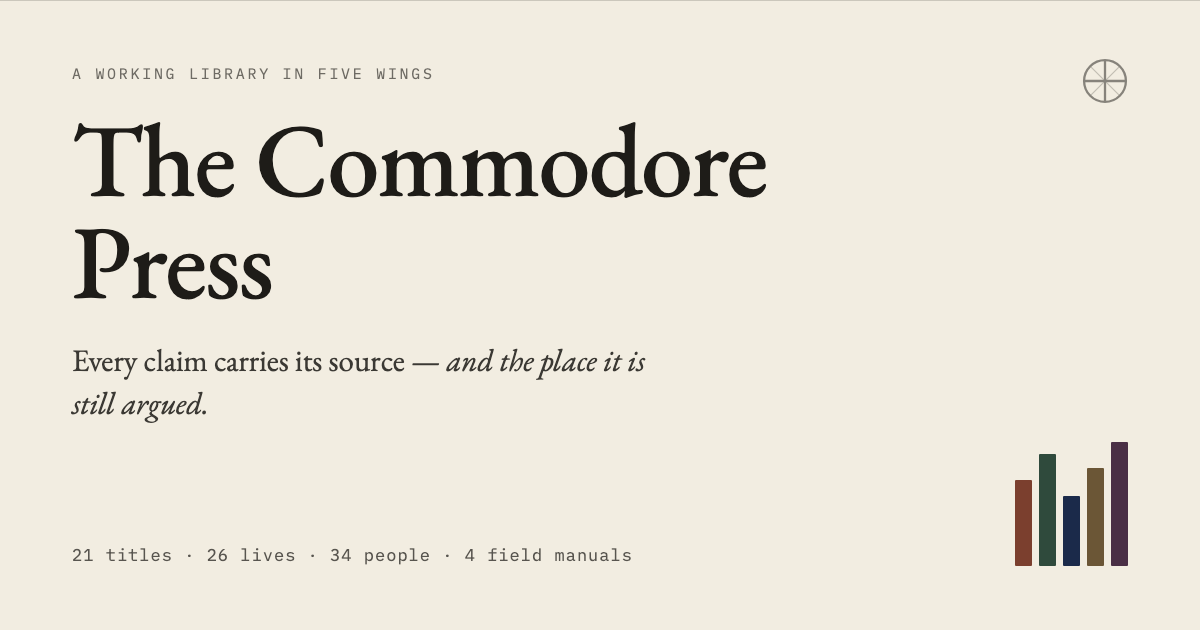
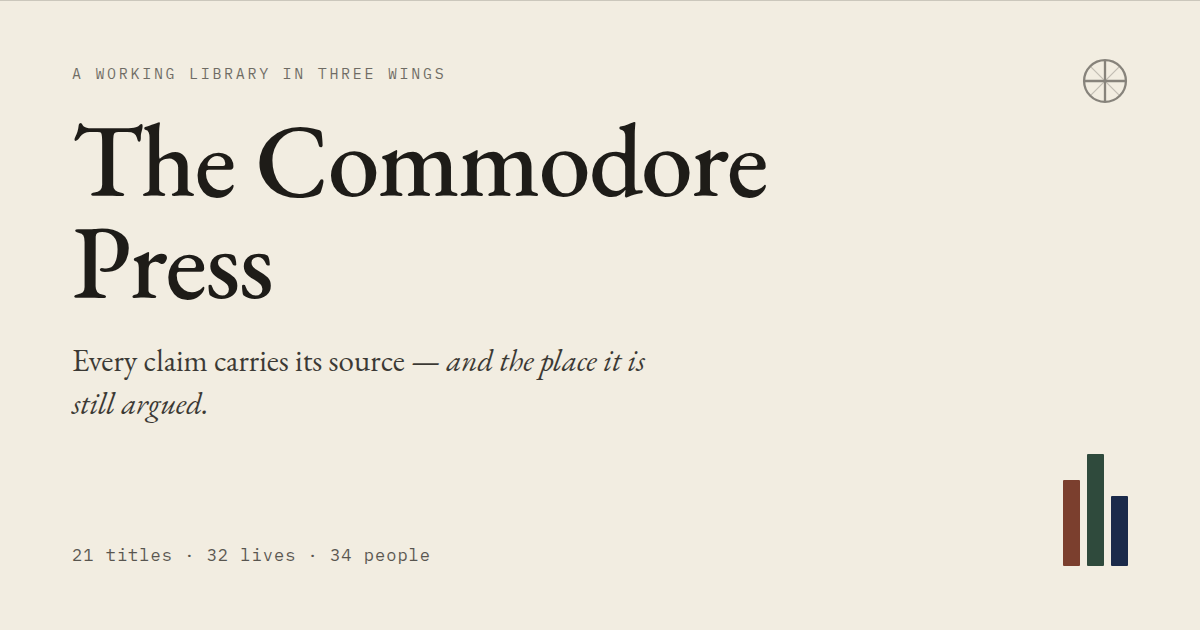
Four things I broke, and two guards so the next ones fail loudly
Ran the repo's own review over this whole branch instead of trusting it.
Four defects were mine, and the worst had already shipped four times.

The script that removed the Slipway section ate two characters of
`</main>`. A literal `/main>` printed above the footer on every view and
`<main>` was never closed, in four builds, while I checked the wings,
the links, the search index and the routing.

"Five wings" outlived the wings in four more places: the og:description
every link preview reads, the front-door standfirst sitting directly
above three wing cards, package.json, and the social card. The wing
count is derived now, like the plate counts.

The disclosure I rewrote an hour ago counted only the CC plates and
called two CC BY-SA ones "CC BY". It reads "except the four plates
credited above" now, which is what the body actually credits — three CC
and the Library of Congress photograph, whose "no known copyright
restrictions" is a narrower claim than public domain and does not belong
on either side of that sentence by accident.

Two guards, both proved on deliberate breakage before being trusted. The
build now refuses an unfilled `{{TOKEN}}`, which would otherwise print
verbatim on the live page. And it refuses an unbalanced or bracket-less
closing tag, which is the `/main>` bug reduced to a rule.

The social card was the one worth the most digging. It is the image on
every shared link and it still advertised five wings, twenty-six lives
[…]

diff --git a/dist/404.html b/dist/404.html
@@ -24,7 +24,7 @@
 <meta property="og:site_name" content="The Commodore Press">
 <meta property="og:locale" content="en_US">
 <meta property="og:url" content="https://42thecommodore.github.io/the-commodore-press/">
-<meta property="og:description" content="A working library in five wings. Every claim carries its source — and the place it is still argued.">
+<meta property="og:description" content="A working library in three wings. Every claim carries its source — and the place it is still argued.">
 <meta property="og:image" content="https://42thecommodore.github.io/the-commodore-press/og.png">
 <meta property="og:image:width" content="1200">
 <meta property="og:image:height" content="630">
@@ -596,7 +596,7 @@
             <span><i style="--d:230ms">Mark what is</i></span>
             <span class="em"><i style="--d:340ms">still argued.</i></span>
           </h1>
-          <p class="stand" data-reveal style="--d:300ms">Five wings of one method. Every claim here carries where it came from and where specialists disagree — because the disagreement is usually the part worth having.</p>
+          <p class="stand" data-reveal style="--d:300ms">Three wings of one method. Every claim here carries where it came from and where specialists disagree — because the disagreement is usually the part worth having.</p>
           <div class="tally" data-reveal style="--d:340ms" id="tally"></div>
         </div>
         <div class="today" data-reveal style="--d:360ms" id="todayCard"></div>
@@ -617,7 +617,7 @@
           <p>The portraits in Lives are public-domain engravings, paintings and photographs, reduced to the house duotone and set as plates. A life without a safely public image carries the press mark instead of a borrowed picture, which seems the more honest trade. Three lives are in that position today. Henrietta Lacks is there by decision; her entry says why at length, and her estate has itself disputed the use of family photographs. Ibn Khaldun and Clair Patterson are there because no image of either has yet been cleared: no portrait of Ibn Khaldun from his own lifetime is known, and Patterson's photographs sit in an archive that grants permission only on request. Three plates are licensed rather than public domain, and are credited here because the licence requires it: the Mandela photograph is by South Africa The Good News (sagoodnews.co.za) under CC BY 2.0; the Steve Jobs photograph was taken at WWDC in 2010 by Matthew Yohe under CC BY-SA 3.0; and the Tu Youyou photograph was taken in Stockholm on 6 December 2015 by Bengt Nyman under CC BY-SA 4.0. All three have been cropped and reduced to the house duotone, which the licences ask us to say. One more is neither: the 1939 photograph of Robert Moses is by C. M. Stieglitz for the New York World-Telegram &amp; Sun, held by the Library of Congress, which states that it knows of no copyright restrictions on it — a narrower claim than public domain, and worth saying in those words. Everything else came through Wikimedia Commons.</p>
           <div class="corr" id="corrections"></div>
           <div class="lbl q" style="margin:30px 0 10px">Disclosure</div>
-          <p style="font-size:16.5px">This site was assembled by Luca with substantial help from an AI assistant (Anthropic's Claude) — drafting, checking figures against the named sources, and the build itself. The picks, positions and errors are mine; when an error is found it joins the corrections above instead of disappearing. Lines marked &ldquo;after&rdquo; a name are compressed notes of someone's idea, not their words, and nobody named on this site has endorsed it or its readings of them. Portraits are public-domain images, except three CC&nbsp;BY credits noted above. The page sets no cookies and runs no analytics; the night-reading switch is remembered only in your own browser.</p>
+          <p style="font-size:16.5px">This site was assembled by Luca with substantial help from an AI assistant (Anthropic's Claude) — drafting, checking figures against the named sources, and the build itself. The picks, positions and errors are mine; when an error is found it joins the corrections above instead of disappearing. Lines marked &ldquo;after&rdquo; a name are compressed notes of someone's idea, not their words, and nobody named on this site has endorsed it or its readings of them. Portraits are public-domain images, except the four plates credited above. The page sets no cookies and runs no analytics; the night-reading switch is remembered only in your own browser.</p>
         </div>
       </div>
     </div>
@@ -684,7 +684,7 @@
     </div>
   </section>
 
-/main>
+</main>
 
 <footer>
   <div class="wrap foot">

diff --git a/dist/index.html b/dist/index.html
@@ -24,7 +24,7 @@
 <meta property="og:site_name" content="The Commodore Press">
 <meta property="og:locale" content="en_US">
 <meta property="og:url" content="https://42thecommodore.github.io/the-commodore-press/">
-<meta property="og:description" content="A working library in five wings. Every claim carries its source — and the place it is still argued.">
+<meta property="og:description" content="A working library in three wings. Every claim carries its source — and the place it is still argued.">
 <meta property="og:image" content="https://42thecommodore.github.io/the-commodore-press/og.png">
 <meta property="og:image:width" content="1200">
 <meta property="og:image:height" content="630">
@@ -596,7 +596,7 @@
             <span><i style="--d:230ms">Mark what is</i></span>
             <span class="em"><i style="--d:340ms">still argued.</i></span>
           </h1>
-          <p class="stand" data-reveal style="--d:300ms">Five wings of one method. Every claim here carries where it came from and where specialists disagree — because the disagreement is usually the part worth having.</p>
+          <p class="stand" data-reveal style="--d:300ms">Three wings of one method. Every claim here carries where it came from and where specialists disagree — because the disagreement is usually the part worth having.</p>
           <div class="tally" data-reveal style="--d:340ms" id="tally"></div>
         </div>
         <div class="today" data-reveal style="--d:360ms" id="todayCard"></div>
@@ -617,7 +617,7 @@
           <p>The portraits in Lives are public-domain engravings, paintings and photographs, reduced to the house duotone and set as plates. A life without a safely public image carries the press mark instead of a borrowed picture, which seems the more honest trade. Three lives are in that position today. Henrietta Lacks is there by decision; her entry says why at length, and her estate has itself disputed the use of family photographs. Ibn Khaldun and Clair Patterson are there because no image of either has yet been cleared: no portrait of Ibn Khaldun from his own lifetime is known, and Patterson's photographs sit in an archive that grants permission only on request. Three plates are licensed rather than public domain, and are credited here because the licence requires it: the Mandela photograph is by South Africa The Good News (sagoodnews.co.za) under CC BY 2.0; the Steve Jobs photograph was taken at WWDC in 2010 by Matthew Yohe under CC BY-SA 3.0; and the Tu Youyou photograph was taken in Stockholm on 6 December 2015 by Bengt Nyman under CC BY-SA 4.0. All three have been cropped and reduced to the house duotone, which the licences ask us to say. One more is neither: the 1939 photograph of Robert Moses is by C. M. Stieglitz for the New York World-Telegram &amp; Sun, held by the Library of Congress, which states that it knows of no copyright restrictions on it — a narrower claim than public domain, and worth saying in those words. Everything else came through Wikimedia Commons.</p>
           <div class="corr" id="corrections"></div>
           <div class="lbl q" style="margin:30px 0 10px">Disclosure</div>
-          <p style="font-size:16.5px">This site was assembled by Luca with substantial help from an AI assistant (Anthropic's Claude) — drafting, checking figures against the named sources, and the build itself. The picks, positions and errors are mine; when an error is found it joins the corrections above instead of disappearing. Lines marked &ldquo;after&rdquo; a name are compressed notes of someone's idea, not their words, and nobody named on this site has endorsed it or its readings of them. Portraits are public-domain images, except three CC&nbsp;BY credits noted above. The page sets no cookies and runs no analytics; the night-reading switch is remembered only in your own browser.</p>
+          <p style="font-size:16.5px">This site was assembled by Luca with substantial help from an AI assistant (Anthropic's Claude) — drafting, checking figures against the named sources, and the build itself. The picks, positions and errors are mine; when an error is found it joins the corrections above instead of disappearing. Lines marked &ldquo;after&rdquo; a name are compressed notes of someone's idea, not their words, and nobody named on this site has endorsed it or its readings of them. Portraits are public-domain images, except the four plates credited above. The page sets no cookies and runs no analytics; the night-reading switch is remembered only in your own browser.</p>
         </div>
       </div>
     </div>
@@ -684,7 +684,7 @@
     </div>
   </section>
 
-/main>
+</main>
 
 <footer>
   <div class="wrap foot">

diff --git a/templates/shell.html b/templates/shell.html
@@ -24,7 +24,7 @@
 <meta property="og:site_name" content="The Commodore Press">
 <meta property="og:locale" content="en_US">
 <meta property="og:url" content="{{SITE}}/">
-<meta property="og:description" content="A working library in five wings. Every claim carries its source — and the place it is still argued.">
+<meta property="og:description" content="A working library in three wings. Every claim carries its source — and the place it is still argued.">
 <meta property="og:image" content="{{SITE}}/og.png">
 <meta property="og:image:width" content="1200">
 <meta property="og:image:height" content="630">
@@ -87,7 +87,7 @@
             <span><i style="--d:230ms">Mark what is</i></span>
             <span class="em"><i style="--d:340ms">still argued.</i></span>
           </h1>
-          <p class="stand" data-reveal style="--d:300ms">Five wings of one method. Every claim here carries where it came from and where specialists disagree — because the disagreement is usually the part worth having.</p>
+          <p class="stand" data-reveal style="--d:300ms">{{W_WINGS_CAP}} wings of one method. Every claim here carries where it came from and where specialists disagree — because the disagreement is usually the part worth having.</p>
           <div class="tally" data-reveal style="--d:340ms" id="tally"></div>
         </div>
         <div class="today" data-reveal style="--d:360ms" id="todayCard"></div>
@@ -108,7 +108,7 @@
           <p>The portraits in Lives are public-domain engravings, paintings and photographs, reduced to the house duotone and set as plates. A life without a safely public image carries the press mark instead of a borrowed picture, which seems the more honest trade. {{W_PLATELESS_CAP}} lives are in that position today. Henrietta Lacks is there by decision; her entry says why at length, and her estate has itself disputed the use of family photographs. Ibn Khaldun and Clair Patterson are there because no image of either has yet been cleared: no portrait of Ibn Khaldun from his own lifetime is known, and Patterson's photographs sit in an archive that grants permission only on request. {{W_CCPLATES_CAP}} plates are licensed rather than public domain, and are credited here because the licence requires it: the Mandela photograph is by South Africa The Good News (sagoodnews.co.za) under CC BY 2.0; the Steve Jobs photograph was taken at WWDC in 2010 by Matthew Yohe under CC BY-SA 3.0; and the Tu Youyou photograph was taken in Stockholm on 6 December 2015 by Bengt Nyman under CC BY-SA 4.0. All three have been cropped and reduced to the house duotone, which the licences ask us to say. One more is neither: the 1939 photograph of Robert Moses is by C. M. Stieglitz for the New York World-Telegram &amp; Sun, held by the Library of Congress, which states that it knows of no copyright restrictions on it — a narrower claim than public domain, and worth saying in those words. Everything else came through Wikimedia Commons.</p>
           <div class="corr" id="corrections"></div>
           <div class="lbl q" style="margin:30px 0 10px">Disclosure</div>
-          <p style="font-size:16.5px">This site was assembled by Luca with substantial help from an AI assistant (Anthropic's Claude) — drafting, checking figures against the named sources, and the build itself. The picks, positions and errors are mine; when an error is found it joins the corrections above instead of disappearing. Lines marked &ldquo;after&rdquo; a name are compressed notes of someone's idea, not their words, and nobody named on this site has endorsed it or its readings of them. Portraits are public-domain images, except {{N_CCPLATES}} CC&nbsp;BY credits noted above. The page sets no cookies and runs no analytics; the night-reading switch is remembered only in your own browser.</p>
+          <p style="font-size:16.5px">This site was assembled by Luca with substantial help from an AI assistant (Anthropic's Claude) — drafting, checking figures against the named sources, and the build itself. The picks, positions and errors are mine; when an error is found it joins the corrections above instead of disappearing. Lines marked &ldquo;after&rdquo; a name are compressed notes of someone's idea, not their words, and nobody named on this site has endorsed it or its readings of them. Portraits are public-domain images, except the {{N_LICENSED}} credited above. The page sets no cookies and runs no analytics; the night-reading switch is remembered only in your own browser.</p>
         </div>
       </div>
     </div>
@@ -175,7 +175,7 @@
     </div>
   </section>
 
-/main>
+</main>
 
 <footer>
   <div class="wrap foot">

diff --git a/dashboard/commissions.md b/dashboard/commissions.md
@@ -22,6 +22,9 @@ in it carries a named source.
 | idea | Atlas | `kept` lines are labelled two ways | The Slipway marks a compressed line `after Jason Nazar`. The Atlas prints 104 kept lines under a name with an em-dash bullet and no marker. Neither claims a quotation and neither breaks the promise — but a reader crossing between the wings meets the same thing labelled twice | `content/atlas/people.json`, `content/slipway/slipway.json` | decide one convention; where a line is compressed rather than heard, write it `after <name>` |
 | idea | All | Ten `across` links are still one-way | `content/CLAUDE.md` asks for the reciprocal link on the other entry and nothing checked it until 2026-09-19; `npm run check` now counts them. The ten are named in the warning. Note the rule tension before filling them in: the same file also says two good links beat five weak ones, and `being-wrong` alone receives three inbound links that are not returned — reciprocating all of them would give one entry four `across` links | the warning from `npm run check` | Luca decides which rule wins where a hub entry is concerned, then write the reciprocals that earn their place |
 | idea | Lives | Plate licences are recorded for four plates, not twenty-nine | `content/plate-licences.json` now holds the ones carrying an obligation — three CC and the Library of Congress photograph — and the check enforces their colophon credits. The other twenty-five rest on the colophon's blanket sentence that everything else came through Wikimedia Commons, which is a claim about twenty-five separate licence boxes that nobody has re-opened | the plate files themselves, then each image's Commons licence box | record each plate's licence as it is next touched, rather than a twenty-five-file audit nobody will finish |
+| idea | All | `npm run ship` pushes any branch straight to main | Not introduced by the three-wings work — it is on `main` already, found while reviewing that branch. `tools/ship.mjs` rebases onto `origin/main` unconditionally and then runs `git push origin HEAD:main`. Run from a feature branch it rebases that branch onto main and deploys it live, bypassing review entirely. The hazard is worst exactly when it is most likely: sitting on a review branch, wanting to ship a small fix | `tools/ship.mjs` lines 53 and 68 | Luca decides: refuse to run unless the branch is `main`, or make the target branch explicit. Deliberately not changed here — it is his deploy command and it is outside what this branch set out to do |
+| idea | All | The front door inlines all 29 plates | Also pre-existing. `renderDoors()` builds a face wall from every plate on the front door, and `loading="lazy"` does nothing on a `data:` URI, so a first-time reader downloads 415 KB of portraits to see it. `build.mjs` carries a recorded house decision from 2026-09-15 that the front door "shows none of them and pays for all of them"; the face wall was added afterwards and makes the trade heavier rather than lighter | `theme/press.js` renderDoors, and the 1 MB trigger comment in `build/build.mjs` | revisit at the 1 MB trigger the build already prints, or move the plates out as real files |
+| idea | Lives | `life.schema.json` forbids two fields the reader renders | `additionalProperties: false` with no `changed` and no `reading`, while `readerHTML()` renders both for any entry that has them. No life uses either today, so nothing is broken — but the field check would reject them with a message that says the site ignores them, which is false. Relevant now that `changed` is proposed for Wing II | `schemas/life.schema.json`, `theme/press.js` readerHTML | add both to the schema when the `changed` decision is made |
 | commissioned | Lives | Ibn Khaldun — the plate | No contemporary portrait exists. The 10-dinar banknote photo on Commons is self-licensed CC BY-SA, but the design belongs to the Banque Centrale de Tunisie; the 1982 statue in Tunis sits under a 2009 freedom-of-panorama exception that excludes "artistic heritage bequeathed by former generations", and nobody has settled whether a 1982 bronze counts | Commons: Statue of Ibn Khaldun in Tunis | Luca decides: set `plateless` with the reason (the Lacks precedent), or clear the statue |
 | commissioned | Lives | Clair Patterson — the plate | No lawfully usable image found. Caltech Archives holds the portraits but grants no licence, only permission on written request; the one Commons file tagged PD has an impossible 1940 date and a dispute flag | archives@caltech.edu, citing an image ID from digital.archives.caltech.edu | write to Caltech, or set `plateless` |
 
@@ -32,6 +35,7 @@ house chose to publish, and when, is worth more than a tidy table.
 
 | Date | Wing | Title | Note |
 |---|---|---|---|
+| 2026-09-19 | All | A review of my own branch, and four things it caught | Ran the repo's code review over the whole three-wings branch rather than trusting it. Four defects were mine. The Slipway removal script ate two characters of `</main>`, so a literal `/main>` printed above the footer and `<main>` never closed — shipped in four builds. "Five wings" survived in the meta description, the front-door standfirst, `package.json` and the social card. The disclosure counted only CC plates and called two CC BY-SA ones "CC BY". And the committed `og.png`, the image on every shared link, still advertised five wings, 26 lives and four field manuals. All fixed, and the wing count is generated now like the plate counts. Two build guards were added and proved on deliberate breakage: an unfilled `{{TOKEN}}` and an unbalanced or bracket-less closing tag now fail the build. The card writer was made cross-platform and now inlines the house typefaces, because it had silently rendered the wordmark in a substitute serif — and because `--screenshot` fails by omission: it wrote a card whose counts line was laid out at y=544 and simply not painted. That is recorded in the tool's header. Three further findings were pre-existing on `main` and went to the queue rather than this branch |
 | 2026-09-19 | All | The colophon contradicted itself about plate licences | The body credits three licensed plates — Mandela CC BY 2.0, Jobs CC BY-SA 3.0, Tu Youyou CC BY-SA 4.0 — and the Disclosure below it said "except one CC BY credit noted above". The credits themselves were all present, so no licence was breached; the summary sentence had simply gone stale as plates were added, in exactly the way `build.mjs` already warns about for the famous/obscure split. Judged a stale self-description rather than a correction: all four printed corrections are claims about the world, and no reader could tell the house had changed its mind. Flagged to Luca, who can print it if he disagrees. Fixed so it cannot recur: the three plate counts in the colophon are now generated from `content/`, the licences live in `content/plate-licences.json`, and the check errors if a recorded credit line is missing from the colophon — proved on a deliberate breach before it was trusted |
 | 2026-09-19 | All | Two wings came down — the house is three wings and all of them are people | House decision, Luca, 2026-09-19. Wing IV (4 field manuals, 30 positions) and Wing V (the Slipway: 44 trade lessons, 7 convergences, the chandlery) removed. The reason is the colophon's, not taste: both wings stated positions with nobody standing behind them, which is the one kind of claim this house cannot source. What remains is one method applied to people three ways — the ideas people spent their lives inside, the people themselves, the people the house listens to now. Cost, paid: 22 `across` links into Wing IV were stripped from 8 titles and 14 lives, and 7 of those entries would have been left as islands, undoing the 2026-09-01 cross-link work. All 7 were re-pointed to targets read first and verified in the other entry's own copy — scaling-curve↔silicon-and-light (a roadmap read as physics), defense-of-bubbles↔water-in-the-west (the 1922 Compact's wet-year flow estimates), comparative-advantage↔the-box (aggregate gain, concentrated loss), and the two reciprocals that were already owed, fritz-haber→norman-borlaug and john-d-rockefeller→andrew-carnegie. Shackleton and Roosevelt went to `atlas:backup` and `atlas:misogi`. Also removed: 2 schemas, the manual scaffold in `npm run new`, the Wing IV register in `press-voice` (seven surfaces back to six), and 42 lines of dead CSS. `content/corrections.json` still names Field Manual IV in correction 1 and was left alone — it is append-only and it is a record of what happened, not a description of what exists. Readers with a `#manuals` or `#slipway` bookmark land on the colophon; `route()` already guarded that. Page 778 KB → 741 KB |
 | 2026-09-19 | All | The voice study, second edition | The author study behind `press-voice` grew from ~10,000 words to ~30,000. Two things were genuinely new and both are now in `references/voice.md`: the **additive pass** — fifteen distinctiveness moves, ten of which translate into a house voice — and **Register 0**, which corrects the diagnosis of flat prose. A generic draft has not drifted toward a machine style; it has drifted toward the author's own application reflex, measured at 23.0 generic phrases per 1,000 words in an essay he submitted against 0.8–2.9 in everything he edits. `npm run voice` now prints that rate per surface. **Every surface of the house measures 0.0.** The audit found nothing to cut: all four soft intensifiers flagged are load-bearing comparatives. The Atlas was brought into the measurement for the first time and is written up as the seventh surface — `take` has the `claim`'s shape almost exactly, 9 words against 8. The `generation.md` targets were re-measured, the lives having grown 26 → 32 |
